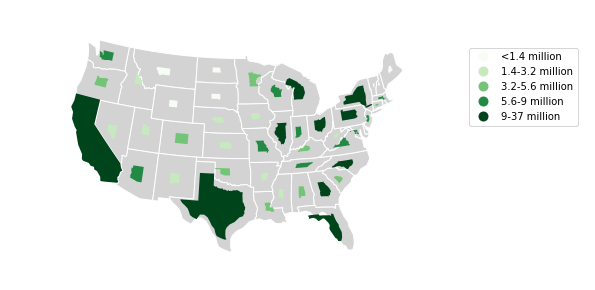
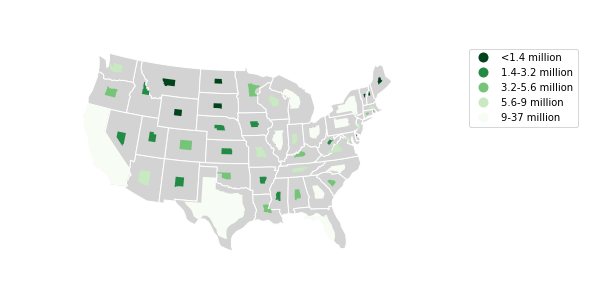
Standardize legend patch sort order.

Changed region(s): [[0.121, 0.1241, 0.6958, 0.869], [0.7866, 0.1552, 0.9681, 0.4655]]

diff --git a/geoplot/geoplot.py b/geoplot/geoplot.py
@@ -77,6 +77,12 @@ class HueMixin:
             categorical, scheme = _validate_buckets(self.df, hue, k, scheme)
             categories = None
             if hue is not None:
+                # self.categorical is passed to ax.legend in paint_legend when legend_labels is
+                # null and the legend is in hue mode (meaning hue is specified, legend is True, and
+                # either legend_var is set to hue OR hue is the only valid legend variable in the
+                # plot). ax.legend sorts the patch-label tuples by patch value in ascending order
+                # internally. This obviates the need for sorting it ourselves here, but also forces
+                # us to also use ascending (not descending) order on the scale legend also.
                 if not categorical:
                     binning = _mapclassify_choro(hue, scheme, k=k)
                     values = binning.yb
@@ -251,10 +257,21 @@ class LegendMixin:
         elif legend and legend_var == 'scale':
             if legend_values is None:
                 # If the user doesn't specify their own legend_values, apply a reasonable
-                # default: a five-point linear array from min to max.
+                # default: a five-point linear array from max to min. The sort order (max to min,
+                # not min to max) is important because ax.legend, the matplotlib function these
+                # values are ultimately passed to, sorts the patches in ascending value order
+                # internally. Even though we pass no patch ordering information to ax.legend,
+                # it still appears to determine an ordering by inspecting plot artists
+                # automagically. In the case where there is no colormap, however, the patch order
+                # we pass is preserved.
+                #
+                # The TLDR is that it's possible to control scale legend patch order (and make it
+                # ascending or descending) in a non-hue plot, in all other cases legend patch order
+                # is locked to ascending, so for consistency across the API we use ascending order
+                # in this case as well.
                 legend_values = np.linspace(
                     np.max(self.scale), np.min(self.scale), num=5, dtype=self.scale.dtype
-                )
+                )[::-1]
             if legend_labels is None:
                 # If the user doesn't specify their own legend_labels, apply a reasonable
                 # default: the 'g' f-string for the given input value.
@@ -263,7 +280,10 @@ class LegendMixin:
             # Use an open-circle design when hue is not None, so as not to confuse viewers with
             # colors in the scale mapping to values that do not correspond with the plot points.
             # But if there is no hue, it's better to have the legend markers be as close to the
-            # plot markers as possible.
+            # plot markers as possible, so in that case the points are filled-in with the
+            # corresponding plot color value. This is controlled by self.colors and, in the case
+            # where hue is None, will be an n-length list of the same color value or name, so we
+            # can grab that by taking the first element of self.colors.
             if self.hue is None:
                 markerfacecolors = [self.colors[0]] * len(legend_values)
             else:
@@ -437,7 +457,6 @@ class Plot:
         if not self.ax:
             plt.figure(figsize=self.figsize)
 
-        import pdb; pdb.set_trace()
         if len(self.df.geometry) == 0:
             extrema = np.array([0, 0, 1, 1])  # default matplotlib plot extent
         else:
